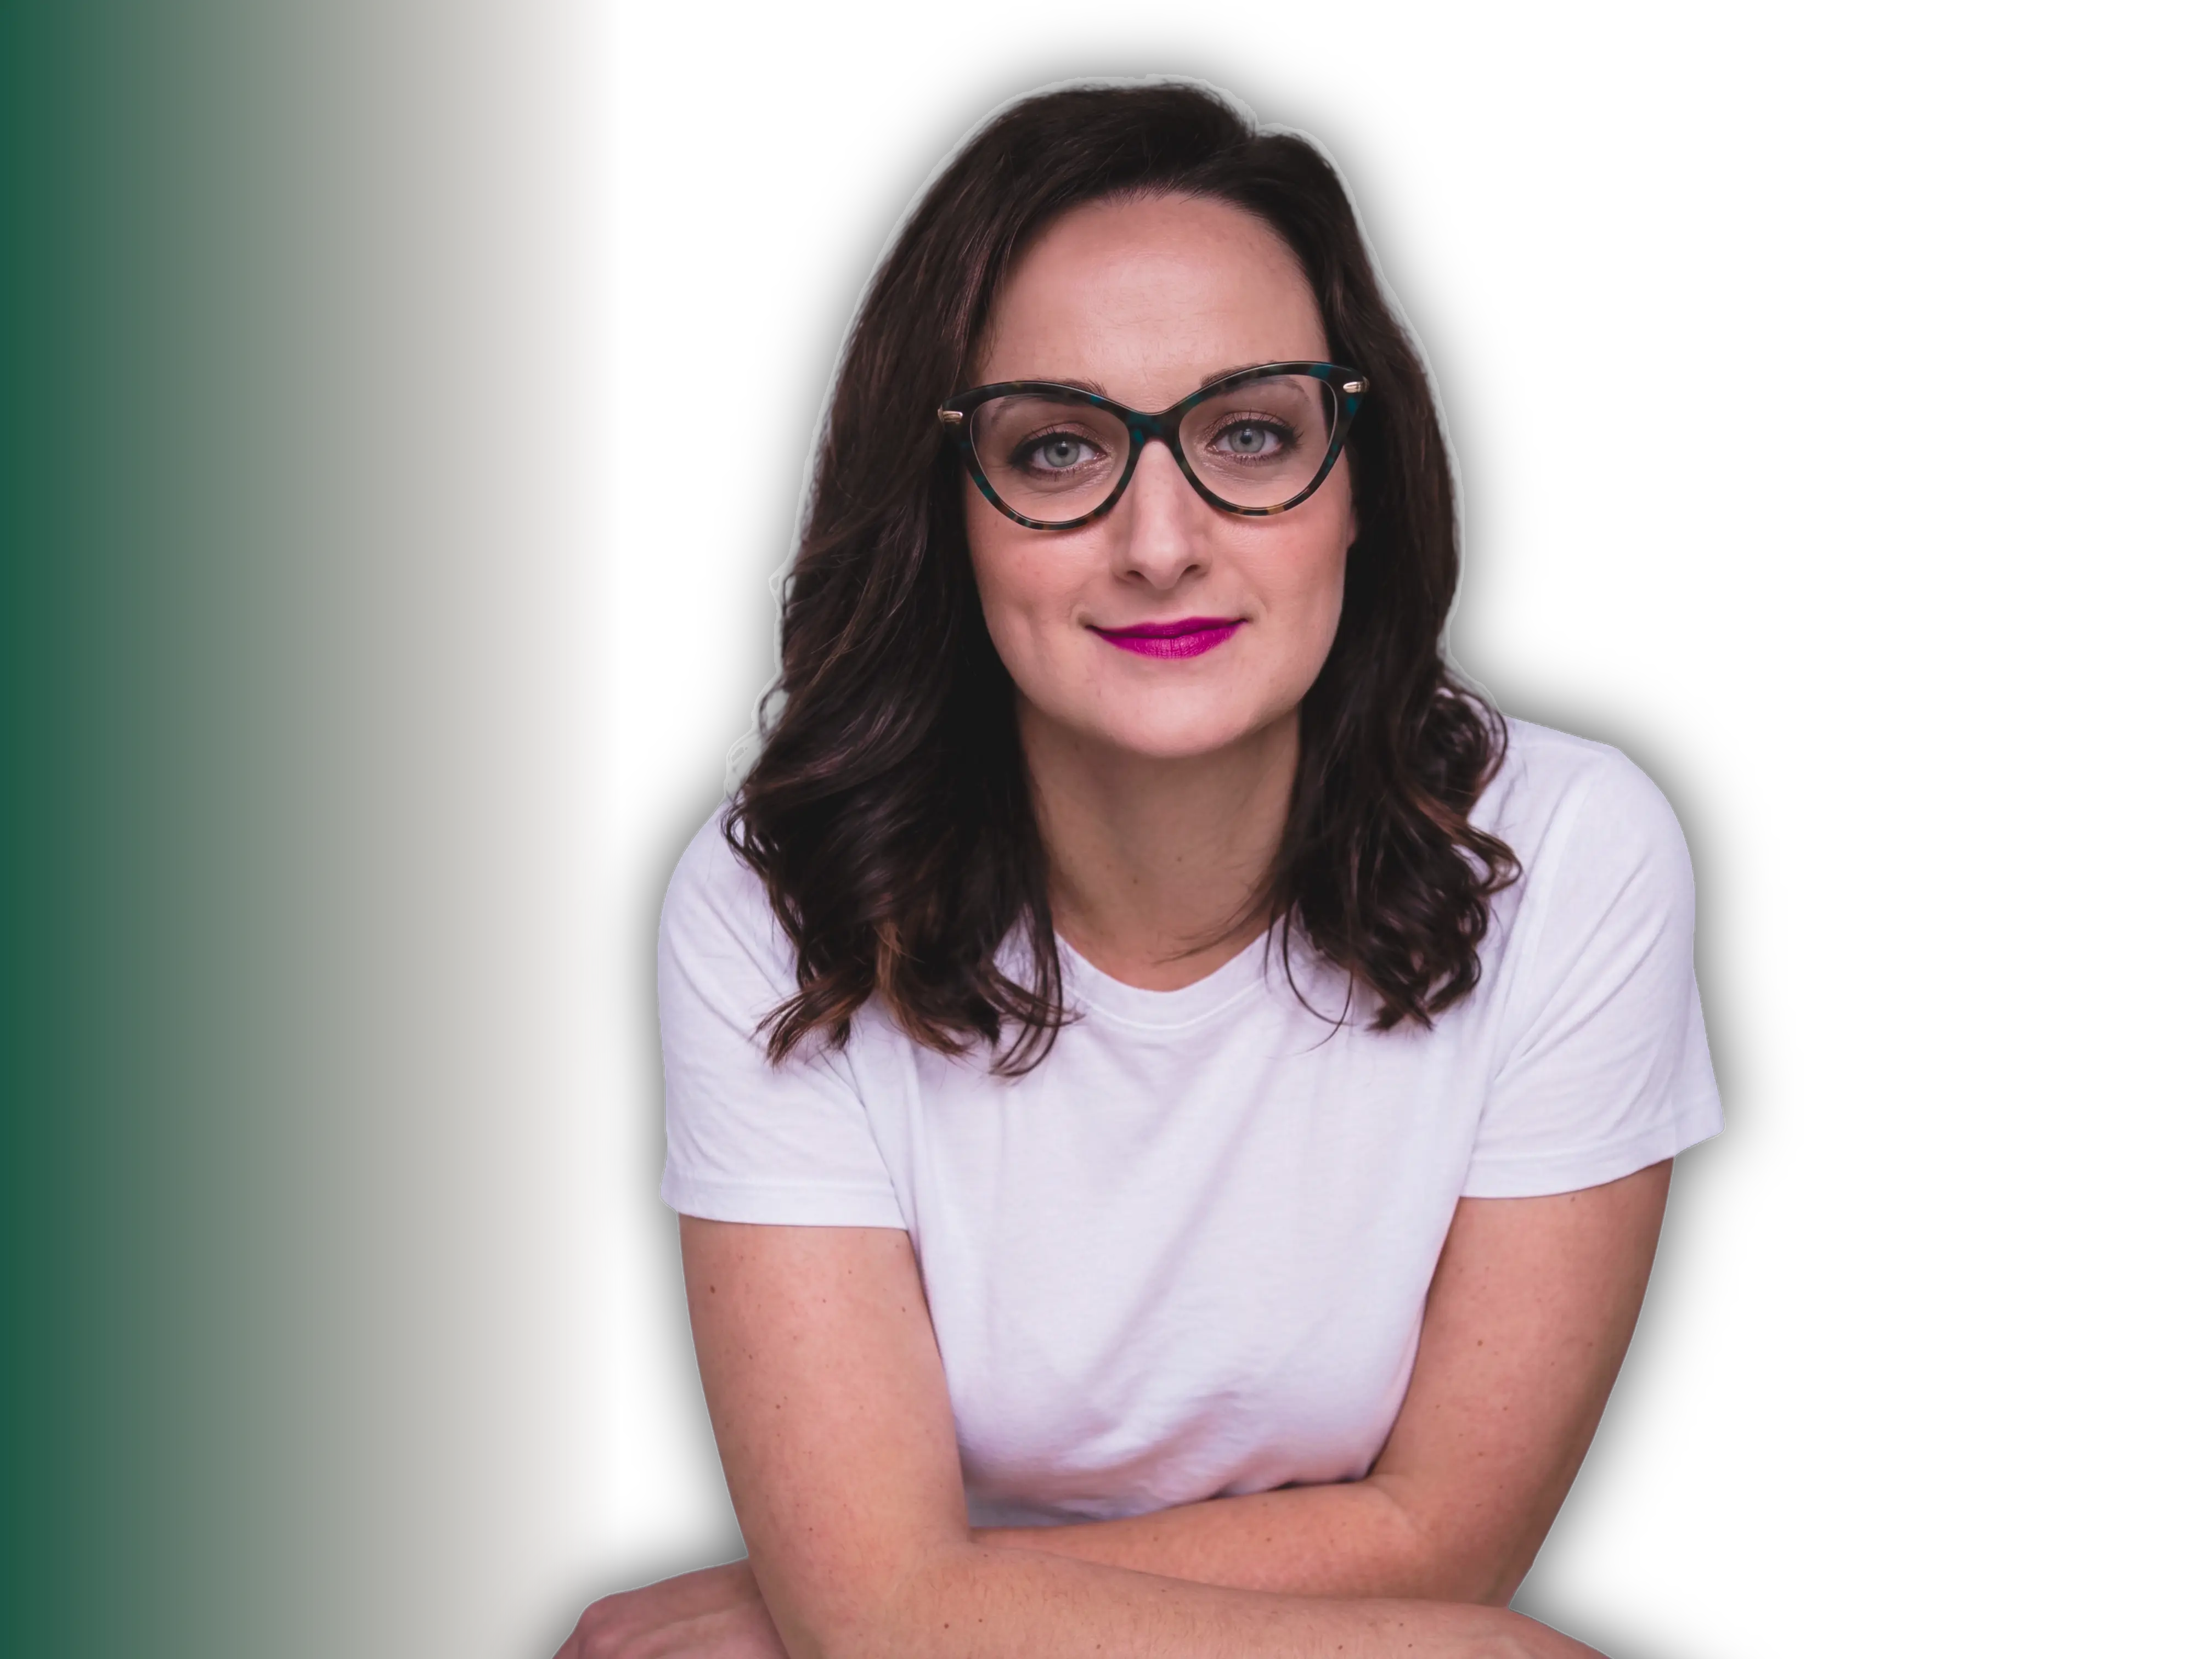
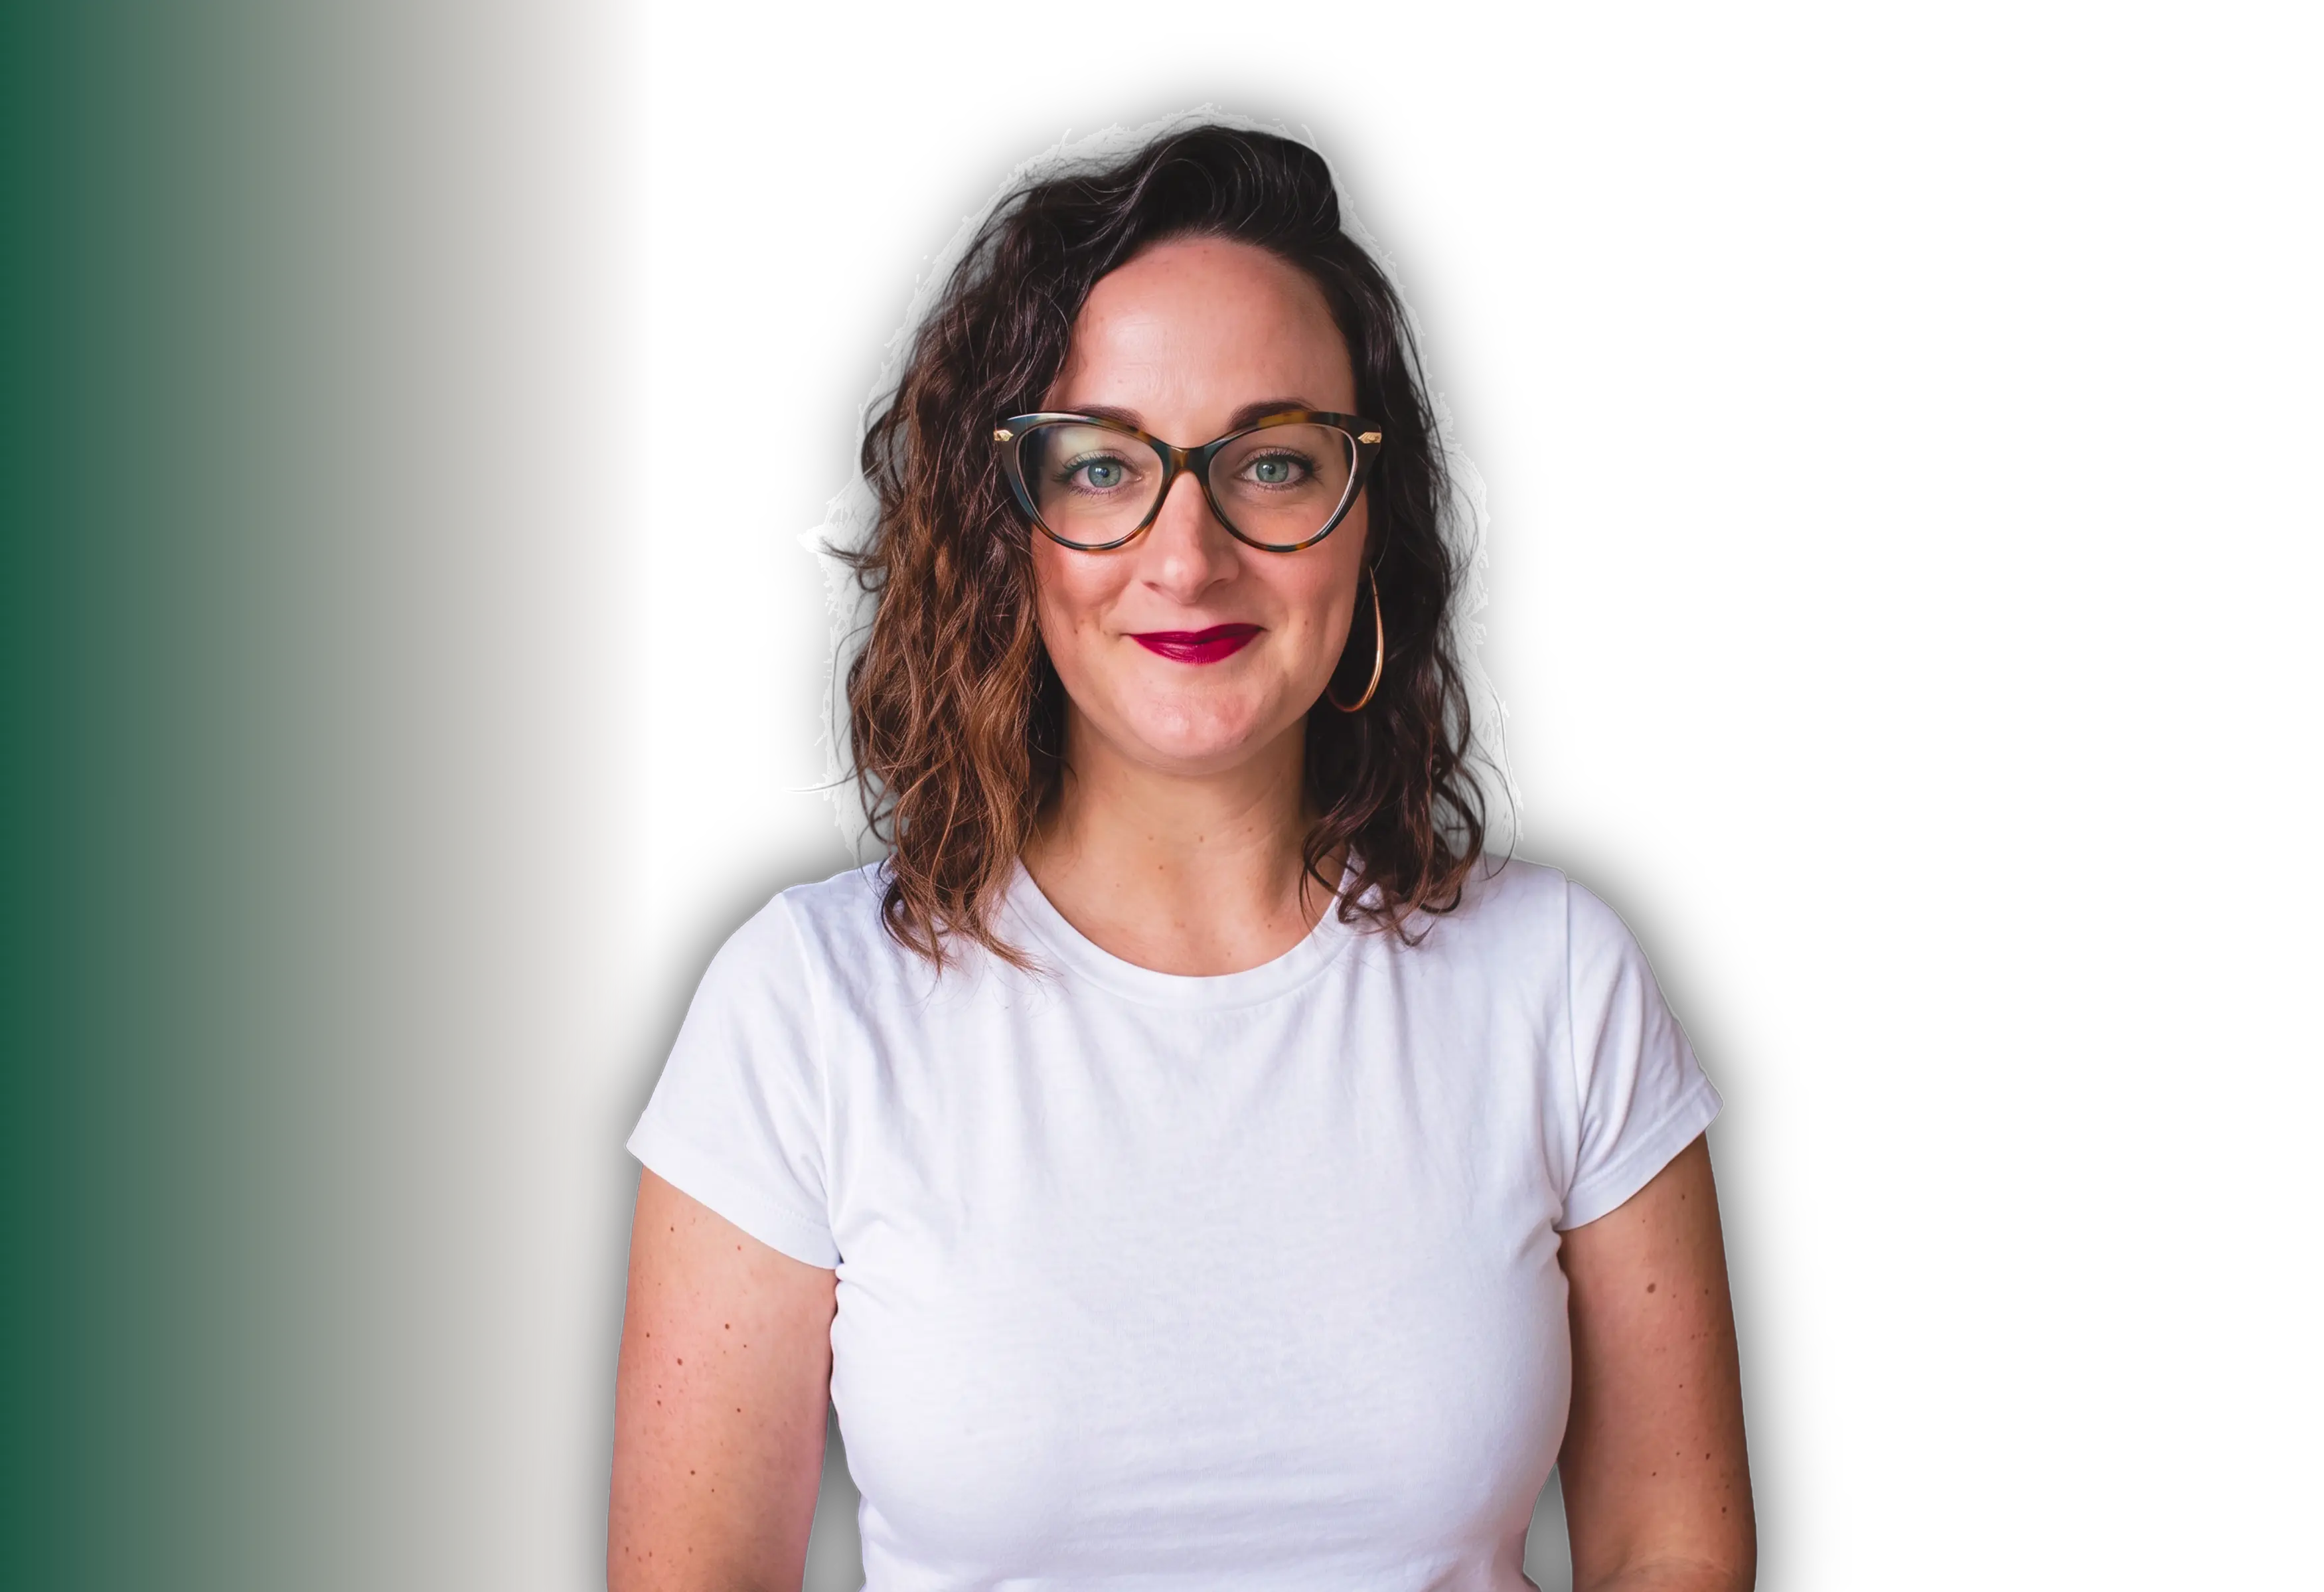
improve photo adn footer

Changed region(s): [[0.2179, 0.0309, 0.8095, 1.0]]

diff --git a/src/components/Header.tsx b/src/components/Header.tsx
@@ -12,13 +12,49 @@ interface HeaderProps {
 export default function Header({ onOpenBooking }: HeaderProps) {
   const [isScrolled, setIsScrolled] = useState(false);
   const [isMobileMenuOpen, setIsMobileMenuOpen] = useState(false);
+  const [activeSection, setActiveSection] = useState("");
 
   useEffect(() => {
     const handleScroll = () => {
       setIsScrolled(window.scrollY > 20);
+
+      const currentHash = window.location.hash.replace("#", "");
+      // If we are on a dedicated route page, lock the highlight to that page
+      if (["about", "services", "portfolio", "contact"].includes(currentHash)) {
+        setActiveSection(currentHash);
+        return;
+      }
+
+      // Determine active section based on scroll position for the home page
+      const sectionIds = navLinks.map((link) => link.href.substring(1));
+      let current = "";
+      // Loop backwards to prioritize sections that are lower on the page
+      for (let i = sectionIds.length - 1; i >= 0; i--) {
+        const id = sectionIds[i];
+        const element = document.getElementById(id);
+        if (element) {
+          const rect = element.getBoundingClientRect();
+          // Trigger when section top is near the top of the viewport
+          if (rect.top <= 200) {
+            current = id;
+            break;
+          }
+        }
+      }
+      if (current) {
+        setActiveSection(current);
+      } else if (window.scrollY === 0) {
+        setActiveSection(sectionIds[0] || "");
+      }
     };
+
     window.addEventListener("scroll", handleScroll);
-    return () => window.removeEventListener("scroll", handleScroll);
+    window.addEventListener("hashchange", handleScroll);
+    handleScroll();
+    return () => {
+      window.removeEventListener("scroll", handleScroll);
+      window.removeEventListener("hashchange", handleScroll);
+    };
   }, []);
 
   return (
@@ -48,15 +84,22 @@ export default function Header({ onOpenBooking }: HeaderProps) {
 
               {/* Navigation Items */}
               <nav className="hidden sm:flex items-center gap-5">
-                {navLinks.map((link) => (
-                  <a
-                    key={link.href}
-                    href={link.href}
-                    className="font-sans text-lg font-semibold text-sea-salt hover:text-sea-salt hover:underline transition-all tracking-wide"
-                  >
-                    {link.label}
-                  </a>
-                ))}
+                {navLinks.map((link) => {
+                  const isActive = activeSection === link.href.substring(1);
+                  return (
+                    <a
+                      key={link.href}
+                      href={link.href}
+                      className={`font-sans text-lg font-semibold transition-all tracking-wide hover:underline ${
+                        isActive
+                          ? "text-brunswick-green-500 drop-shadow-sm"
+                          : "text-sea-salt hover:text-sea-salt"
+                      }`}
+                    >
+                      {link.label}
+                    </a>
+                  );
+                })}
               </nav>
 
               {/* Mobile trigger */}
@@ -94,16 +137,23 @@ export default function Header({ onOpenBooking }: HeaderProps) {
             className="sm:hidden fixed top-[90px] left-0 w-full bg-raisin-black-800 border-b border-sea-salt backdrop-blur-lg overflow-y-auto z-50 shadow-2xl"
           >
             <div className="p-5 flex flex-col gap-4">
-              {navLinks.map((link) => (
-                <a
-                  key={link.href}
-                  href={link.href}
-                  onClick={() => setIsMobileMenuOpen(false)}
-                  className="font-sans text-lg font-semibold text-sea-salt hover:text-brunswick-green-500 tracking-wide transition-colors py-2 border-b border-sea-salt/60"
-                >
-                  {link.label}
-                </a>
-              ))}
+              {navLinks.map((link) => {
+                const isActive = activeSection === link.href.substring(1);
+                return (
+                  <a
+                    key={link.href}
+                    href={link.href}
+                    onClick={() => setIsMobileMenuOpen(false)}
+                    className={`font-sans text-lg font-semibold tracking-wide transition-colors py-2 border-b border-sea-salt/60 ${
+                      isActive
+                        ? "text-brunswick-green-500"
+                        : "text-sea-salt hover:text-brunswick-green-500"
+                    }`}
+                  >
+                    {link.label}
+                  </a>
+                );
+              })}
               {/* <div className="pt-3 flex flex-col gap-2">
                 <button
                   id="mobile-drawer-book-btn"

diff --git a/src/components/about/TeamSection.tsx b/src/components/about/TeamSection.tsx
@@ -48,7 +48,7 @@ export interface TeamMember {
 export const members: TeamMember[] = [
     {
         name: 'Molly Sanders',
-        role: 'Founder and CEO',
+        role: 'Founder & CEO',
         socialMediaAccounts: {
             linkedin: { name: "Molly Sanders", url: "https://www.linkedin.com/in/mollysanders/" },
             github: { name: "", url: "" },
@@ -57,7 +57,7 @@ export const members: TeamMember[] = [
 
         images:
         {
-            imageDisplay: `${import.meta.env.BASE_URL}Team Member Photo/Black top/Molly.png`,
+            imageDisplay: `${import.meta.env.BASE_URL}Team Member Photo/Black top/Molly.webp`,
             imageDisplayHover: `${import.meta.env.BASE_URL}Team Member Photo/White top/Molly.webp`,
             ImageDetail1: `${import.meta.env.BASE_URL}Team Member Photo/Black top/png/Molly.webp`,
             ImageDetail2: `${import.meta.env.BASE_URL}Team Member Photo/Black top/Detail Photo 2/Molly.webp`,
@@ -385,7 +385,7 @@ const TeamSection: React.FC = () => {
     }, [selectedIndex]);
 
     return (
-        <section className="py-16 text-slate-50 relative" id="about">
+        <section className="py-16 text-slate-50 relative">
             <div className="w-[75%] mx-auto space-y-10 text-center">
 
                 <span className="inline-block px-3.5 py-2 rounded-full border border-brunswick-500 text-lg font-sans uppercase tracking-widest text-brunswick-green-500  bg-raisin-black">

diff --git a/src/pages/AboutUs.tsx b/src/pages/AboutUs.tsx
@@ -1,4 +1,4 @@
-import React, { useState } from 'react';
+import React, { useState, useEffect } from 'react';
 import HeroAbout from '../components/about/Hero';
 import TeamSection from '../components/about/TeamSection';
 import Header from "../components/Header";
@@ -7,6 +7,10 @@ import BookingModal from '../components/BookingModal';
 import '../css/about.css';
 
 const AboutUs: React.FC = () => {
+    useEffect(() => {
+        window.scrollTo(0, 0);
+    }, []);
+
     // State untuk bahasa (default 'id')
     const [lang, setLang] = useState<'id' | 'en'>('en');
     const [isBookingOpen, setIsBookingOpen] = useState(false);

diff --git a/src/pages/ContactUs.tsx b/src/pages/ContactUs.tsx
@@ -1,10 +1,14 @@
-import React, { useState } from "react";
+import React, { useState, useEffect } from "react";
 import { Mail, MapPin, Phone, Send, CheckCircle, AlertCircle } from "lucide-react";
 import emailjs from '@emailjs/browser';
 import { Turnstile } from '@marsidev/react-turnstile';
 import { contactUsCopy } from '../copy'; // Adjust this path to wherever your copy file lives
 
 export default function ContactPage() {
+    useEffect(() => {
+        window.scrollTo(0, 0);
+    }, []);
+
     // 1. State Management untuk form dan interaksinya
     const [formData, setFormData] = useState({ name: "", email: "", message: "" });
     const [errors, setErrors] = useState({});

diff --git a/src/pages/Portfolios.tsx b/src/pages/Portfolios.tsx
@@ -1,4 +1,4 @@
-import React, { useMemo, useState } from "react";
+import React, { useMemo, useState, useEffect } from "react";
 import { customProjects } from "../data";
 import PortfolioCard from "../components/PortfolioCard";
 import { PhoneCall } from "lucide-react";
@@ -6,6 +6,10 @@ import { portfoliosPageCopy } from "../copy";
 
 export default function PortfolioPage() {
     const [activeTab, setActiveTab] = useState("All");
+
+    useEffect(() => {
+        window.scrollTo(0, 0);
+    }, []);
 
     const onOpenBooking = () => {
         window.open(

diff --git a/src/pages/Services.tsx b/src/pages/Services.tsx
@@ -1,4 +1,4 @@
-import React, { useState } from "react";
+import React, { useState, useEffect } from "react";
 import Header from "../components/Header";
 import ServicesHero from "../components/services/Hero";
 import Offer from "../components/services/offer"; // DiagnosisPanel component
@@ -8,6 +8,10 @@ import WhatYouGet from "../components/services/WhatYouGet";
 import Testimonials from "../components/Testimonials";
 
 const Services: React.FC = () => {
+  useEffect(() => {
+    window.scrollTo(0, 0);
+  }, []);
+
   const [isBookingOpen, setIsBookingOpen] = useState(false);
   const handleOpenBooking = () => setIsBookingOpen(true);
   const handleCloseBooking = () => setIsBookingOpen(false);

diff --git a/src/components/Footer.tsx b/src/components/Footer.tsx
@@ -45,7 +45,7 @@ export default function Footer() {
                     rel="no-referrer"
                     className="h-9 w-9 rounded-xl border border-brunswick-green-500 bg-raisin-black-800 hover:bg-brunswick-green-500/30 hover:border-brunswick-green-500/30 hover:text-brunswick-green-500 flex items-center justify-center text-brunswick-green-500 transition-colors"
                   >
-                    <Icon className="h-4 w-4" />
+                    <Icon className="h-6 w-6" />
                   </a>
                 );
               })}

diff --git a/src/components/WhyUs.tsx b/src/components/WhyUs.tsx
@@ -146,7 +146,7 @@ export default function WhyUs(props: WhyUsProps) {
               </div>
 
               <a href={`${import.meta.env.BASE_URL}#about`}>
-                <p className="font-sans text-base sm:text-lg text-sea-salt/90 tracking-wider font-semibold ml-2 select-none uppercase font-bold text-brunswick-green-500 cursor-pointer hover:underline transition-all duration-300 transform active:scale-95">{whyUsCopy.seeAllTeam}</p>
+                <p className="font-sans text-base sm:text-lg text-sea-salt/90 tracking-wider font-semibold ml-2 select-none  font-bold text-brunswick-green-500 cursor-pointer hover:underline transition-all duration-300 transform active:scale-95">{whyUsCopy.seeAllTeam}</p>
               </a>
             </div>
 